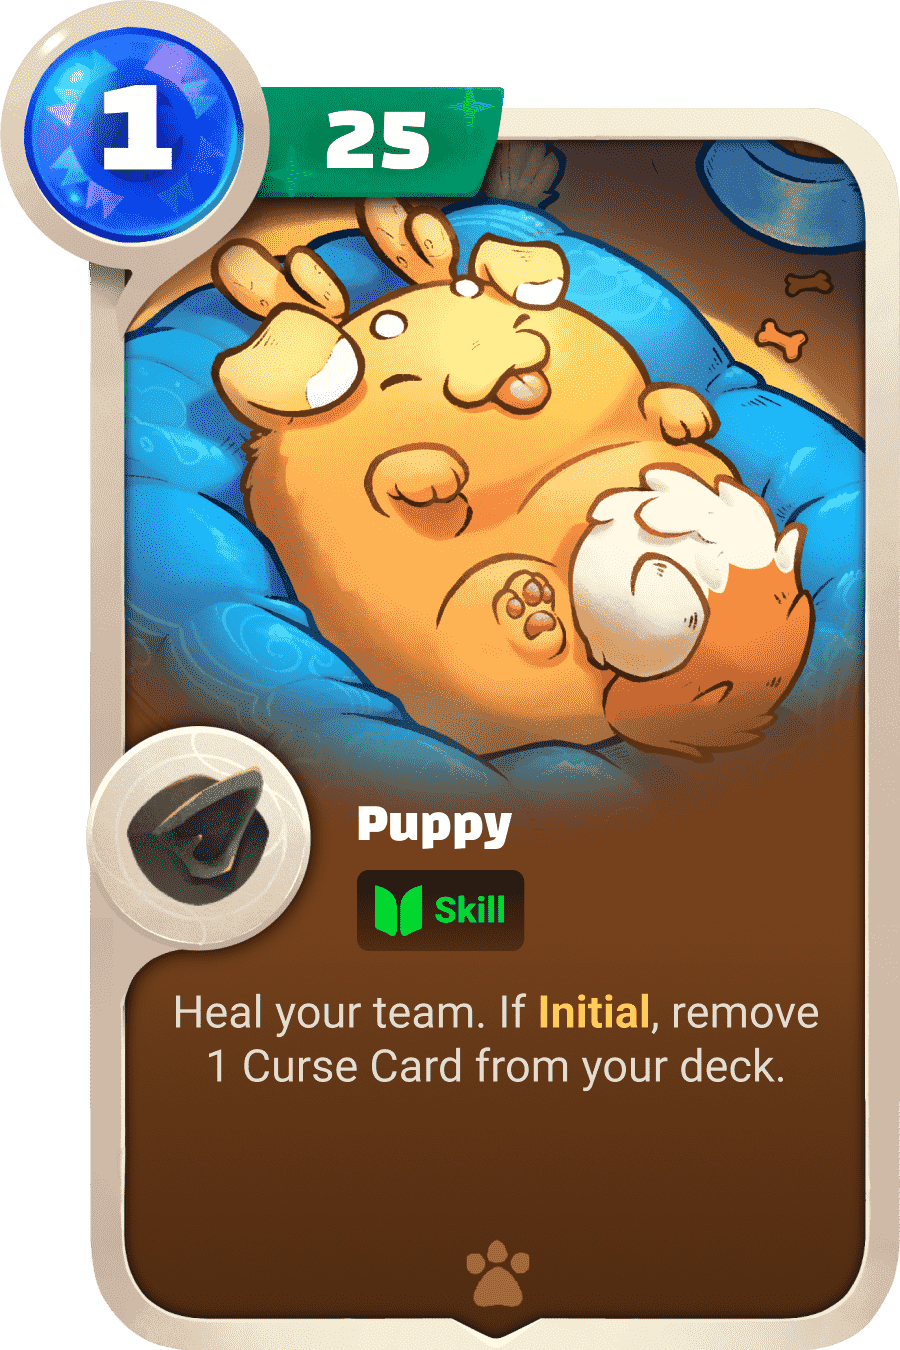
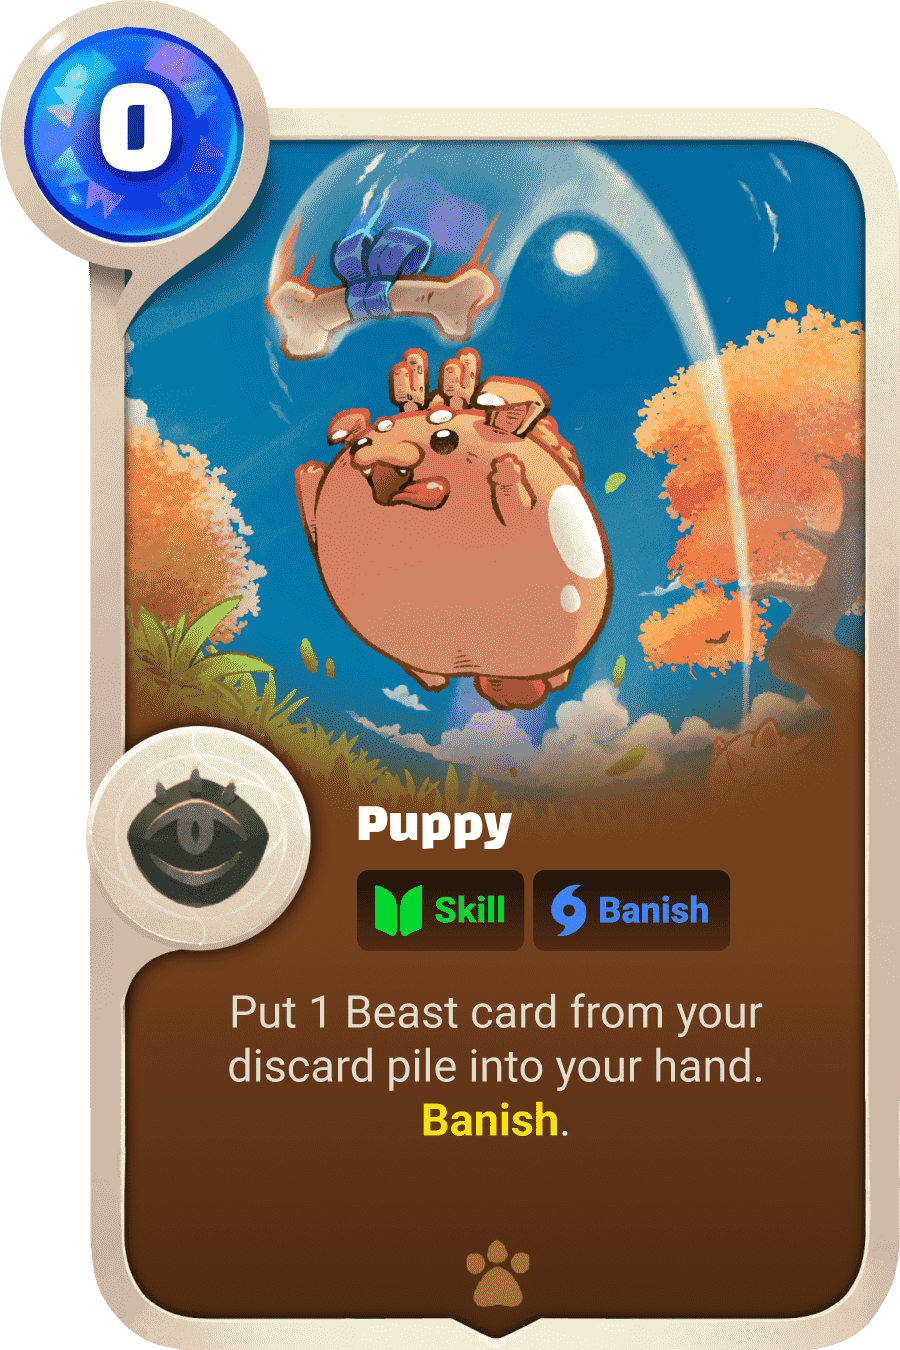
adicionado cartas olhos

diff --git a/webpack.mix.js b/webpack.mix.js
@@ -19,9 +19,14 @@ mix.imgs({
     source: 'resources/card-img',
     destination: 'public/images',
     imageminPngquantOptions: { quality: [0, 0.1] }
-})
+});
 mix.imgs({
     source: 'resources/card-ears',
     destination: 'public/images',
     imageminPngquantOptions: { quality: [0, 0.1] }
-})
+});
+mix.imgs({
+    source: 'resources/card-eye',
+    destination: 'public/images',
+    imageminPngquantOptions: { quality: [0, 0.1] }
+});

diff --git a/resources/views/cards/eye.blade.php b/resources/views/cards/eye.blade.php
@@ -1,0 +1,24 @@
+<x-card class="plant" type="eye" card="papi" energy="1" description="Escolha qualquer aliado. Sempre que comprada, cura 20 de VIDA." />
+<x-card class="plant" type="eye" card="confusion" energy="1" description="" />
+<x-card class="plant" type="eye" card="cucumberslive" energy="2" description="" />
+<x-card class="plant" type="eye" card="blossom" energy="0" description="" />
+<x-card class="reptile" type="eye" card="gecko" energy="0" 0 description="" />
+<x-card class="reptile" type="eye" card="tricky" energy="1" description="" />
+<x-card class="reptile" type="eye" card="scar" energy="0" description="" />
+<x-card class="reptile" type="eye" card="topaz" energy="1" description="" />
+<x-card class="bird" type="eye" card="mavis" energy="1" description="" />
+<x-card class="bird" type="eye" card="lucas" energy="0" description="" />
+<x-card class="bird" type="eye" card="littleowl eyes" energy="1" description="" />
+<x-card class="bird" type="eye" card="robin" energy="1" description="" />
+<x-card class="beast" type="eye" card="zeal" energy="0" description="" />
+<x-card class="beast" type="eye" card="littlepeas" energy="1" description="" />
+<x-card class="beast" type="eye" card="puppy" energy="0" description="" />
+<x-card class="beast" type="eye" card="chubby" energy="2" description="" />
+<x-card class="bug" type="eye" card="bookworm" energy="0" description="" />
+<x-card class="bug" type="eye" card="nerdy" energy="0" description="" />
+<x-card class="bug" type="eye" card="neo" energy="1" description="" />
+<x-card class="bug" type="eye" card="kotaroeyes" energy="1" description="" />
+<x-card class="aqua" type="eye" card="sleepless" energy="1" description="" />
+<x-card class="aqua" type="eye" card="clear" energy="0" description="" />
+<x-card class="aqua" type="eye" card="gero" energy="1" description="" />
+<x-card class="aqua" type="eye" card="telescope" energy="0" description="" />

diff --git a/resources/views/welcome.blade.php b/resources/views/welcome.blade.php
@@ -34,6 +34,7 @@
     <section class="cards">
         @include('cards.cards')
         @include('cards.ear')
+        @include('cards.eye')
     </section>
     <footer>
         <a href="https://discord.gg/2zuh7Ufhy8" target="_blank">Discord do Desenvolvedor<br>Developer Discord</a>
